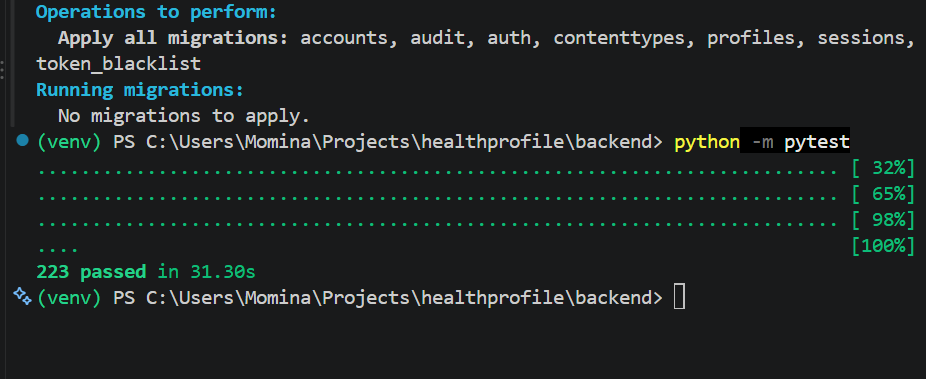
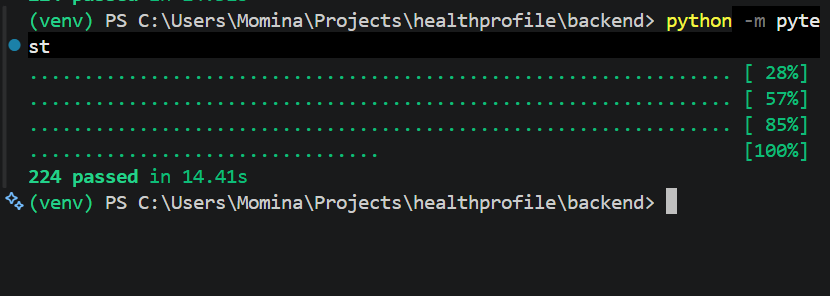
docs: correct test counts and update pytest screenshot

diff --git a/README.md b/README.md
@@ -434,7 +434,7 @@ Checked on a fresh clone with a new, empty database:
 
 * `python manage.py migrate` succeeded.
 * `seed_profiles` and `create_admin` ran.
-* `python -m pytest` gave **224 passed** (with 192 warnings).
+* `python -m pytest` gave **223 passed** (with 192 warnings).
 * A member and an admin could both sign in on the fresh copy.
 
 The 5 demo members: `momina.asif` (complete), `bilal.ahmed` and `sara.noor` (in progress), `zainab.iqbal`
